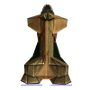
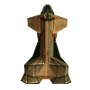
llort bp updates

Changed region(s): [[0.5556, 0.9333, 0.8, 0.9556], [0.2222, 0.9333, 0.4667, 0.9556]]

diff --git a/source/server/model/ships/llort/breachingpodllort.php b/source/server/model/ships/llort/breachingpodllort.php
@@ -9,7 +9,7 @@ class breachingpodllort extends FighterFlight{
 		$this->faction = "Llort";
         $this->phpclass = "breachingpodllort";
         $this->shipClass = "Skulattra Breaching Pods";
-		$this->imagePath = "img/ships/LlortLeteerum.png";
+		$this->imagePath = "img/ships/LlortSkulattra.png";
         
         $this->forwardDefense = 8;
         $this->sideDefense = 8;
@@ -24,6 +24,8 @@ class breachingpodllort extends FighterFlight{
 		$this->unitSize = 1; 
 		
 		$this->iniativebonus = 9*5;
+		$this->notes = "Bonuses to attaching to enemy ships and delivering marines.";	
+
       
         $this->populate();
     }
@@ -38,8 +40,8 @@ class breachingpodllort extends FighterFlight{
 			$armour = array(2, 2, 2, 2);
 			$fighter = new Fighter("breachingpodllort", $armour, 18, $this->id);
 			$fighter->displayName = "Skulattra";
-			$fighter->imagePath = "img/ships/LlortLeteerum.png";
-			$fighter->iconPath = "img/ships/LlortLeteerum_Large.png";
+			$fighter->imagePath = "img/ships/LlortSkulattra.png";
+			$fighter->iconPath = "img/ships/LlortSkulattra_Large.png";
 			
 			
 			$fighter->addFrontSystem(new Marines(330, 30, 0, false)); //startarc, endarc, damagebonus, elite.

diff --git a/source/server/model/weapons/specialWeapons.php b/source/server/model/weapons/specialWeapons.php
@@ -5997,7 +5997,7 @@ class Marines extends Weapon{
 		$targetMove = $target->getLastMovement();
 		$targetSpeed = $targetMove->speed;
 		$speedDifference = abs($targetSpeed - $shooterSpeed);//Calculate absolute difference in speed.
-		if($shooter->faction == "Llort") $speedDifference -= 1;
+		if($shooter->faction == "Llort") $speedDifference -= 1;//Llort reduce speed difference by 1.
 			
 		$finalSpeedDifference = max(0, $speedDifference);//Llort bonus could make it -1...
 		
@@ -6089,8 +6089,6 @@ class Marines extends Weapon{
 					
 		$location = $fireOrder->chosenLocation ;
 		if($location == 0 && (!$target instanceof OSAT)) $rollMod -= 1; //Easier to deliver marines to destroyed sections i.e direct to Primary section.	       
-echo "Value of location: " . $location. "\n";
-echo "Value of location: " . $rollMod. "\n";
 
 		foreach ($target->enhancementOptions as $enhancement) {//Defender quality can influence roll too.
 		    $enhID = $enhancement[0];
